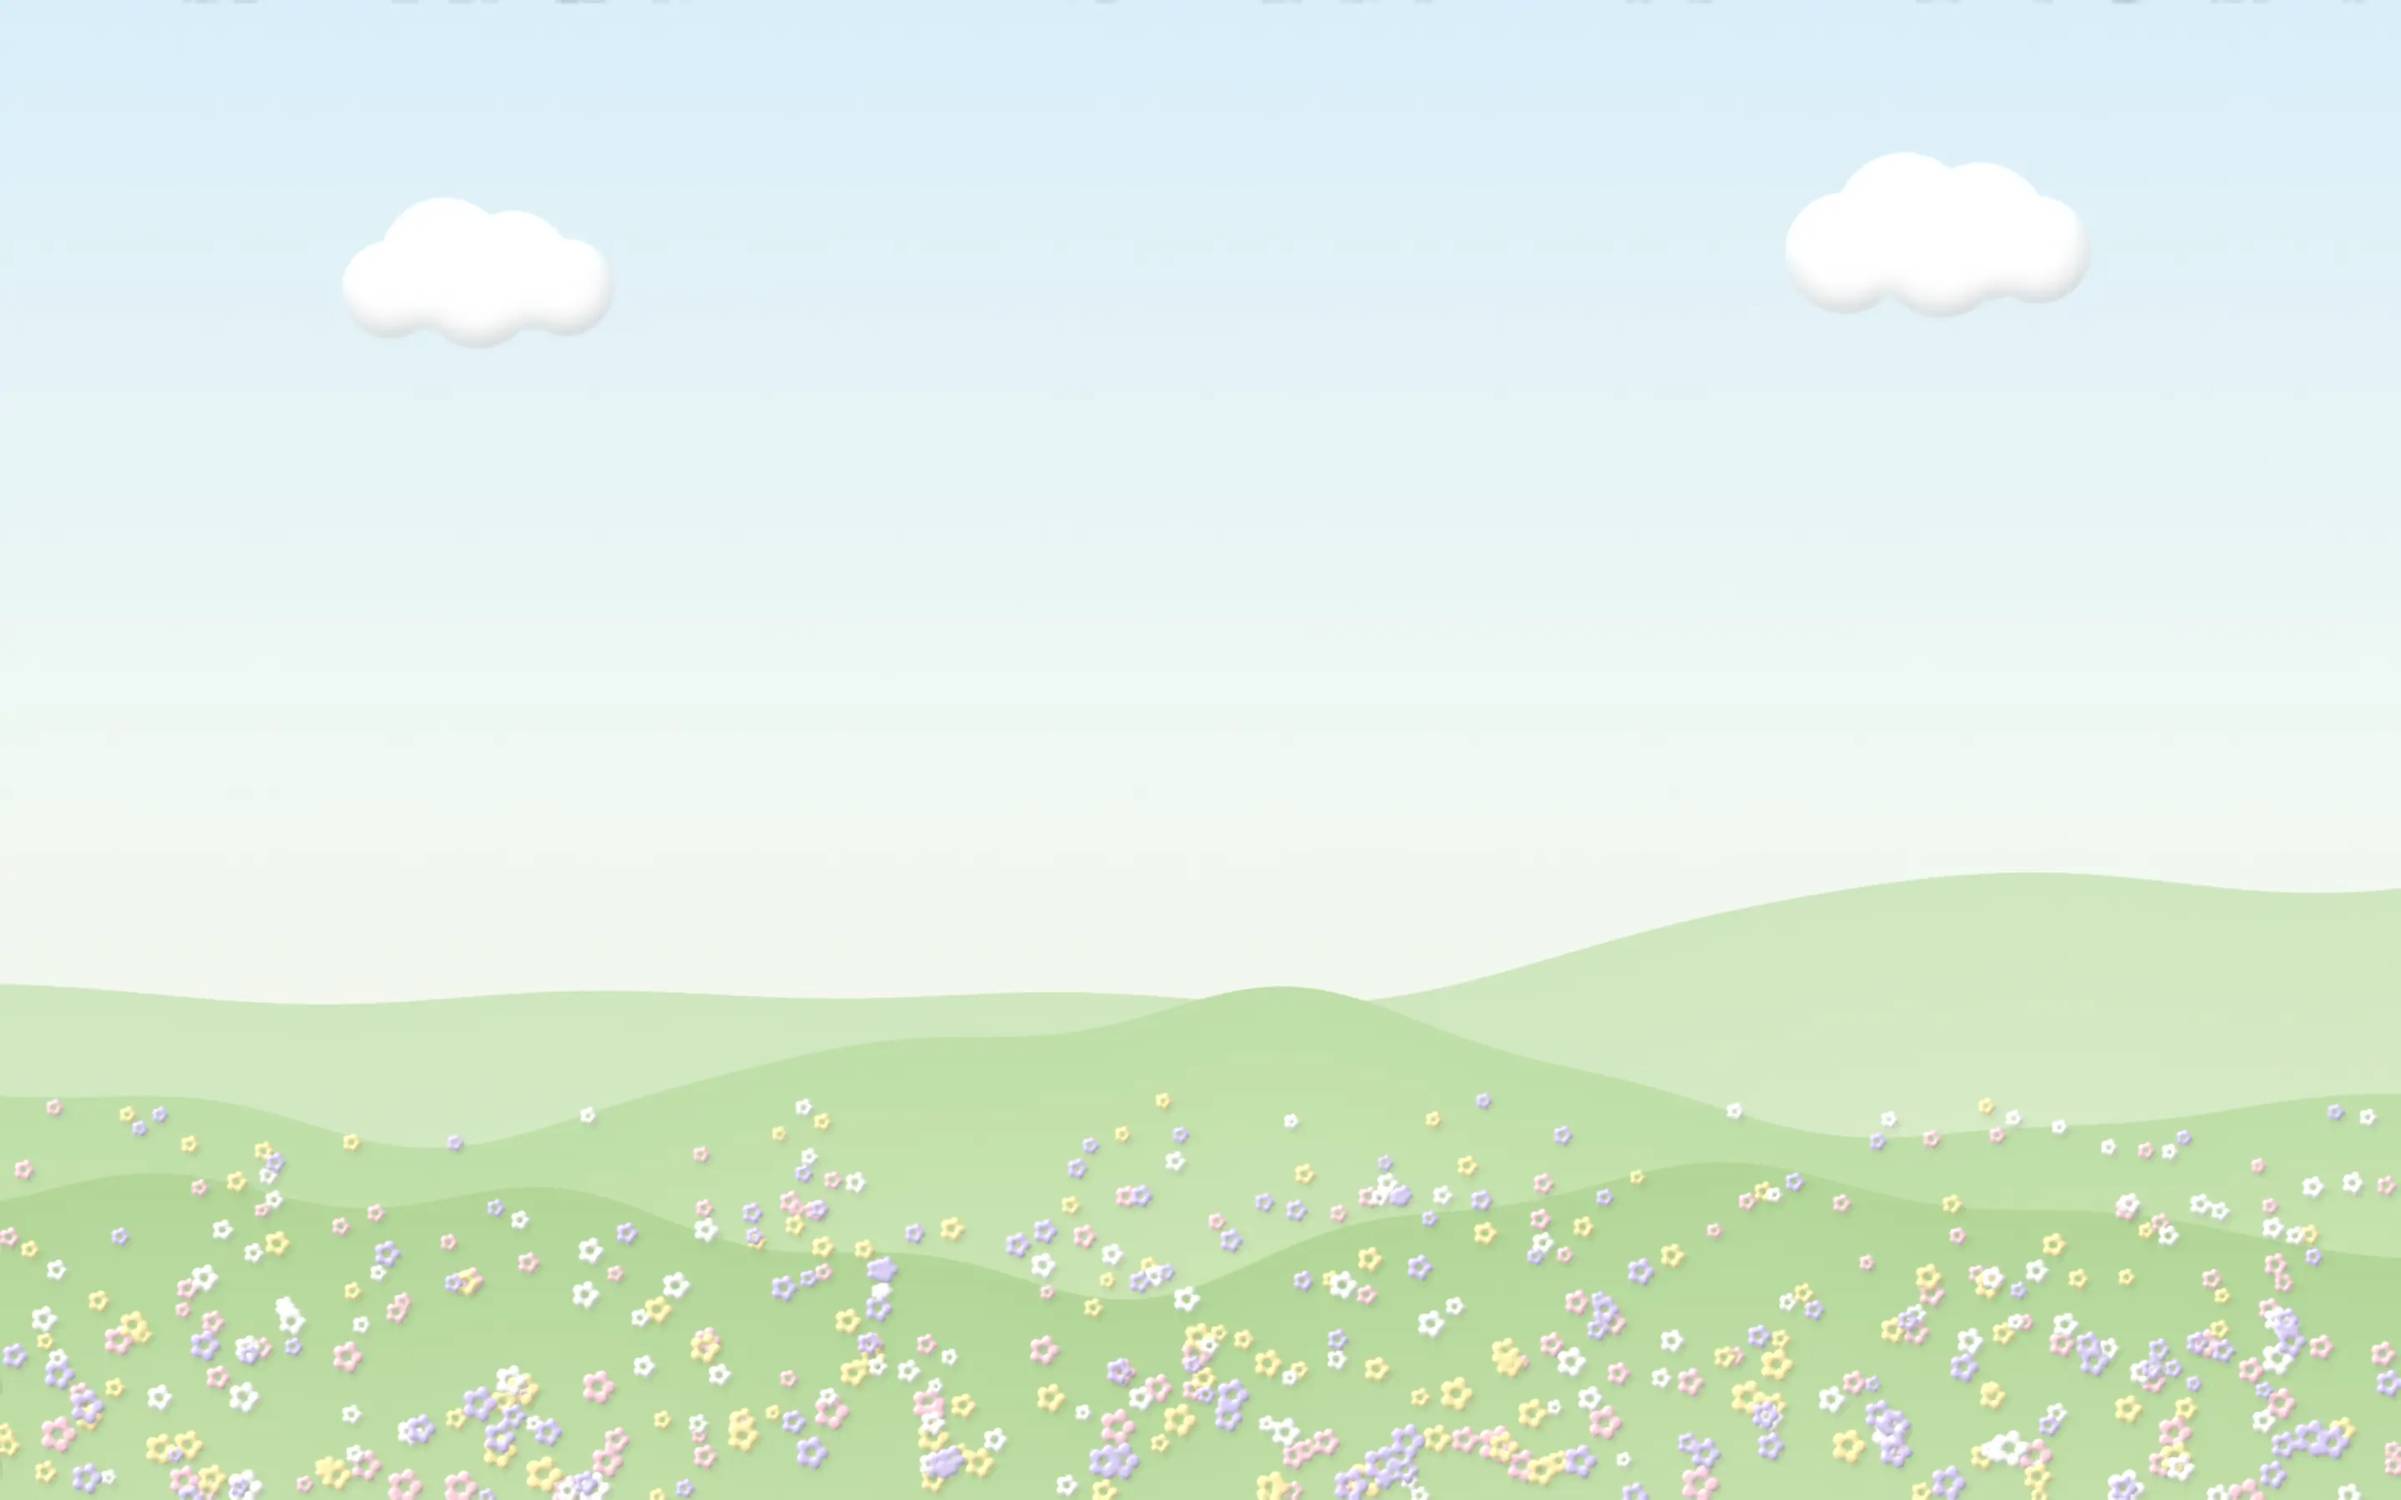
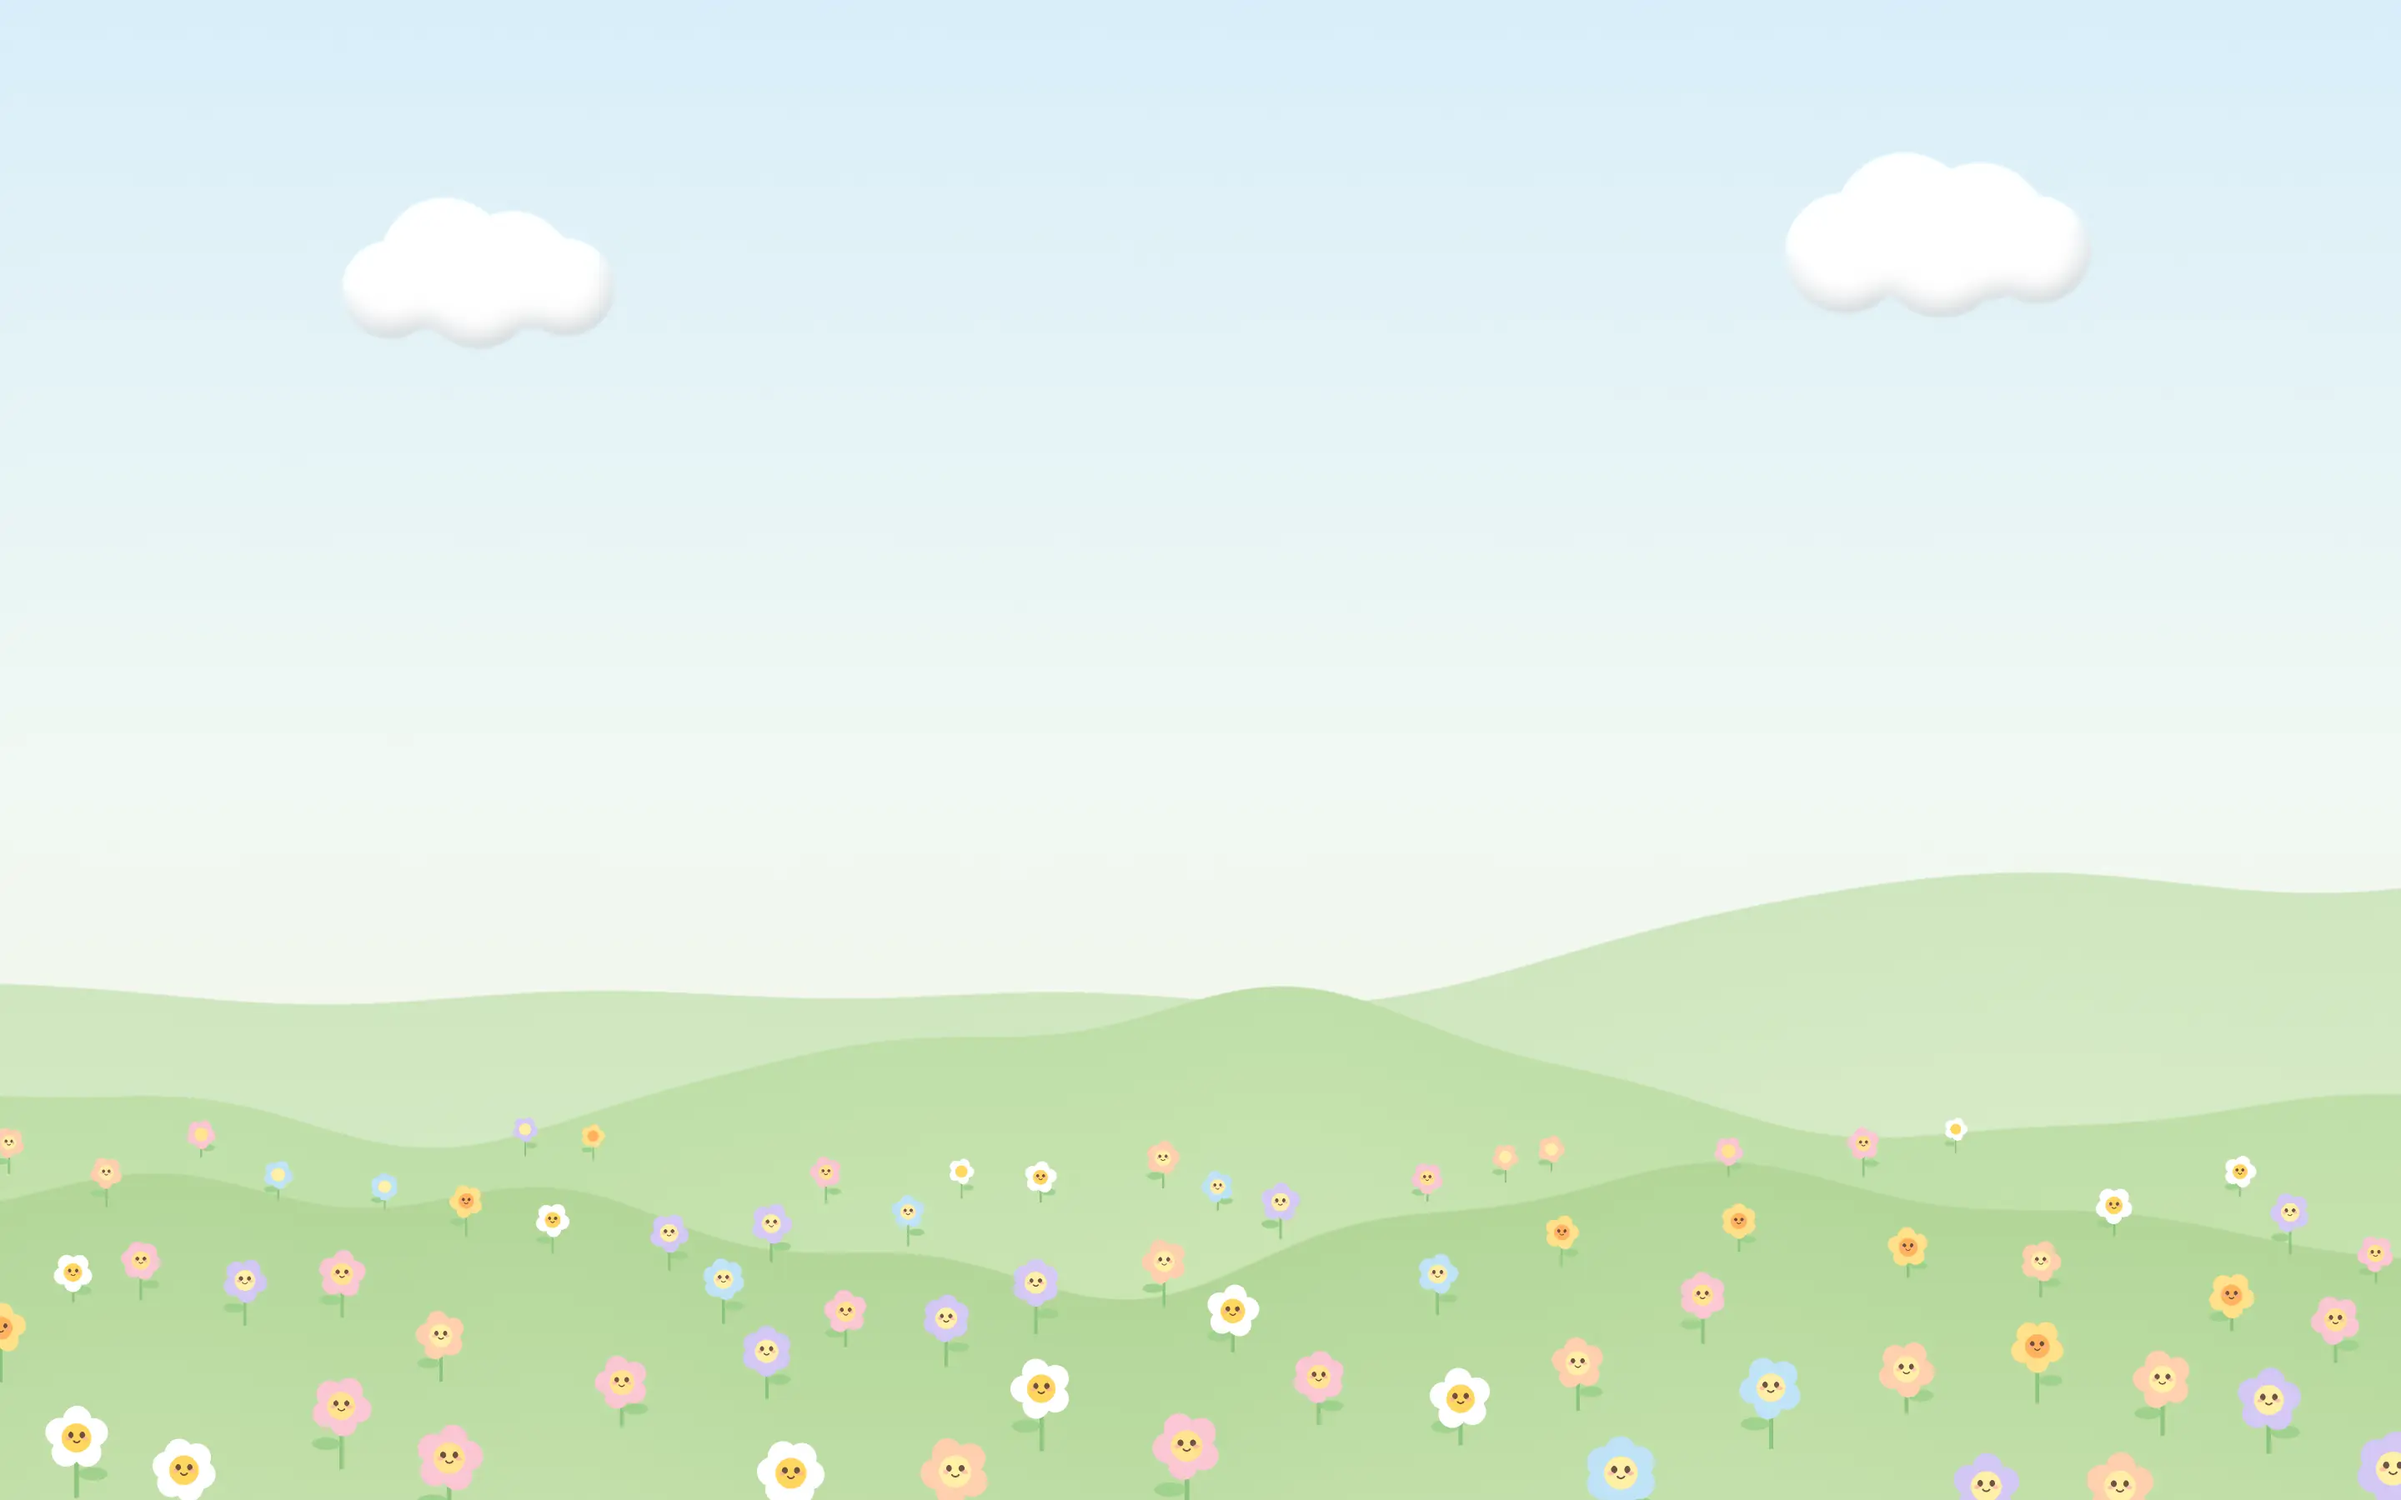
大百科スキン：花畑の花をフラットな顔つきのキャラクター風に
Claude-Session: https://claude.ai/code/session_01EiWRAXdgG2E49zWGCUrEwZ

Changed region(s): [[0.0, 0.7467, 1.0, 1.0], [0.9688, 0.7156, 1.0, 0.7467]]

diff --git a/atlas/skins.js b/atlas/skins.js
@@ -9,7 +9,7 @@
 (function () {
   'use strict';
   const BASE = (() => { try { return new URL('../images/atlas/skin/', document.currentScript.src).href; } catch (e) { return '../images/atlas/skin/'; } })();
-  const V = 3;   // bump when the images are re-rendered
+  const V = 4;   // bump when the images are re-rendered
   const DEV_ALL = true;
   const RAR = ['N', 'R', 'SR', 'SSR', 'UR'];
   // id: [rarity, kind (tile px | 'c' = cover), page colour, header colour, selected-tab colour, dark]

diff --git a/atlas/index.html b/atlas/index.html
@@ -2348,7 +2348,7 @@ else document.write('<script src="https://cdnjs.cloudflare.com/ajax/libs/three.j
 <script src="texgen.js?v=2"></script>
 <script src="npc/roster.js?v=16"></script>
 <script src="art.js?v=19"></script>
-<script src="skins.js?v=4"></script>
+<script src="skins.js?v=5"></script>
 <script src="../shared/atlas-updates.js?v=48"></script>
 <script src="../shared/atlas.js?v=20261119nw1"></script>
 <script src="../shared/atlas-firebase-config.js?v=ac1"></script>

diff --git a/atlas/tools/skins.py b/atlas/tools/skins.py
@@ -683,16 +683,58 @@ def meadow_cover(seed=113):
     img = soft_clouds(img, [(380, 230, 110), (1550, 200, 120)], '#ffffff', '#e2eef4', seed)
     for i, (b, a, top, bot) in enumerate([(760, 50, '#cfe6bf', '#d9ecc8'), (860, 45, '#bfdea8', '#cde6b6'), (980, 40, '#b2d698', '#c4e0ab')]):
         img = paint_layer(img, ridge(seed + i, b, a, freq=.8 + i * .3), top, bot, soft=1.5)
-    r = RNG(seed + 1)
-    for col in ('#fbd3dd', '#fff1b0', '#ffffff', '#d9cdf6'):
-        m = Image.new('L', (W, H), 0); d = ImageDraw.Draw(m)
-        for _ in range(120):
-            x = r.random() * W; y = k(880 + r.random() ** .7 * 320); s = k(4) + (y - k(860)) / 50 * r.random()
-            for j in range(5):
-                a = j * 2 * math.pi / 5; d.ellipse([x + math.cos(a) * s - s * .55, y + math.sin(a) * s - s * .55, x + math.cos(a) * s + s * .55, y + math.sin(a) * s + s * .55], fill=255)
-        mm = np.asarray(m.filter(ImageFilter.GaussianBlur(k(.8))), np.float32) / 255
-        img = emboss_layer(img, mm, col, rad=k(1.5), k=4 / K, shadow=.08, wrap=False, sh_off=(int(k(2)), int(k(3))))
-    return grain(img, .005, seed)
+    img = flower_friends(img, seed + 1)
+    return grain(img, .004, seed)
+
+def flower_friends(img, seed):
+    """flat, character-like flowers on the near hills: round petals, a centre with a little face (2026-11-20 ユーザー)"""
+    r = RNG(seed)
+    PET = ['#fbc6d4', '#ffe08a', '#ffffff', '#d4c8f6', '#ffcfae', '#bfe3f7']
+    CEN = {'#fbc6d4': '#ffe48f', '#ffe08a': '#ffb35c', '#ffffff': '#ffd65e', '#d4c8f6': '#fff0a6', '#ffcfae': '#fff0a6', '#bfe3f7': '#fff0a6'}
+    pts = []
+    tries = 0
+    while len(pts) < 70 and tries < 20000:   # spread out, bigger toward the front
+        tries += 1
+        y = 900 + r.random() ** .8 * 290; x = r.random() * 1920; sz = 7 + (y - 900) / 290 * 17 + r.random() * 4
+        if all((x - q[0]) ** 2 + (y - q[1]) ** 2 > ((sz + q[2]) * 1.9) ** 2 for q in pts): pts.append((x, y, sz))
+    pts.sort(key=lambda p: p[1])
+    ss = 2
+    def L(): return Image.new('L', (W * ss, H * ss), 0)
+    for x, y, sz in pts:
+        pass
+    # draw back to front, each flower its own layers so nearer ones overlap farther ones
+    for x, y, sz in pts:
+        X, Y, S = k(x) * ss, k(y) * ss, k(sz) * ss
+        col = PET[int(r.random() * len(PET))]
+        stem, leaf, pet, cen, face = L(), L(), L(), L(), L()
+        ds, dl, dp, dc, df = ImageDraw.Draw(stem), ImageDraw.Draw(leaf), ImageDraw.Draw(pet), ImageDraw.Draw(cen), ImageDraw.Draw(face)
+        hgt = S * (1.6 + r.random() * .8)
+        ds.line([(X, Y), (X, Y + hgt)], fill=255, width=max(2, int(S * .16)))
+        sd = 1 if r.random() < .5 else -1
+        lx, ly = X + sd * S * .55, Y + hgt * .6
+        dl.ellipse([lx - S * .5, ly - S * .22, lx + S * .5, ly + S * .22], fill=255)
+        n = 5 if r.random() < .7 else 6
+        rot = r.random() * math.pi
+        for j in range(n):
+            a = rot + j * 2 * math.pi / n
+            px, py = X + math.cos(a) * S * .62, Y + math.sin(a) * S * .62
+            dp.ellipse([px - S * .48, py - S * .48, px + S * .48, py + S * .48], fill=255)
+        dc.ellipse([X - S * .5, Y - S * .5, X + S * .5, Y + S * .5], fill=255)
+        if sz > 11:   # a face: two dot eyes, a small smile, rosy cheeks
+            e = S * .085
+            for ex in (-.2, .2):
+                df.ellipse([X + ex * S - e, Y - S * .1 - e * 1.2, X + ex * S + e, Y - S * .1 + e * 1.2], fill=255)
+            df.arc([X - S * .14, Y - S * .08, X + S * .14, Y + S * .18], 20, 160, fill=255, width=max(2, int(S * .06)))
+        for m_, c_, al in ((stem, '#8cc47a', 1), (leaf, '#9fd18b', 1), (pet, col, 1), (cen, CEN[col], 1), (face, '#5a4038', .9)):
+            mm = np.asarray(m_.resize((W, H), Image.LANCZOS), np.float32) / 255
+            box = mm > 0
+            if box.any(): img = lerp(img, hexc(c_), mm * al)
+        if sz > 11:   # cheeks
+            ck = L(); dk = ImageDraw.Draw(ck)
+            for ex in (-.3, .3):
+                dk.ellipse([X + ex * S - S * .09, Y + S * .02 - S * .06, X + ex * S + S * .09, Y + S * .02 + S * .06], fill=255)
+            img = lerp(img, hexc('#ff9fb0'), np.asarray(ck.resize((W, H), Image.LANCZOS), np.float32) / 255 * .6)
+    return img
 
 def dunes_cover(seed=127):
     img = vgrad([(0, '#fbe2c4'), (.45, '#fdf0dc'), (1, '#f6dcb3')])
